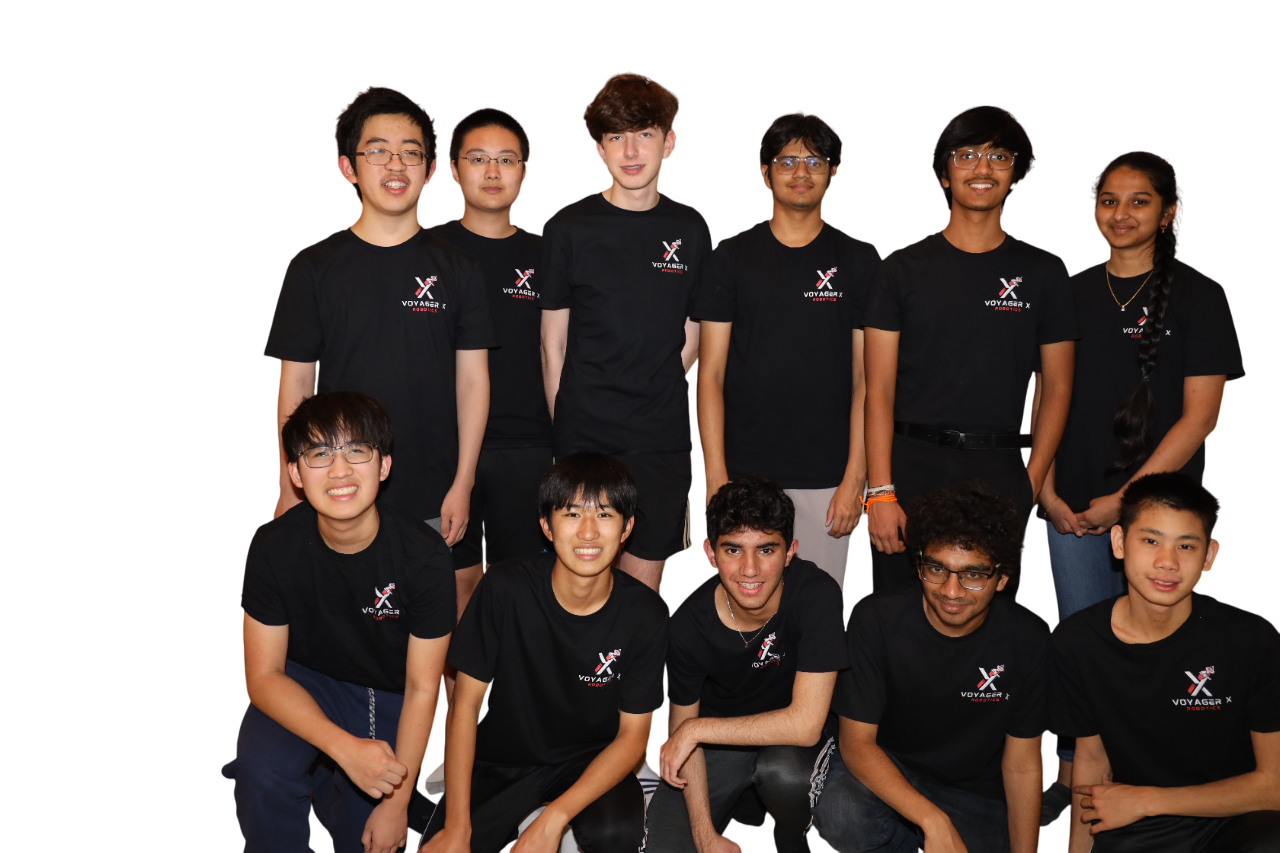
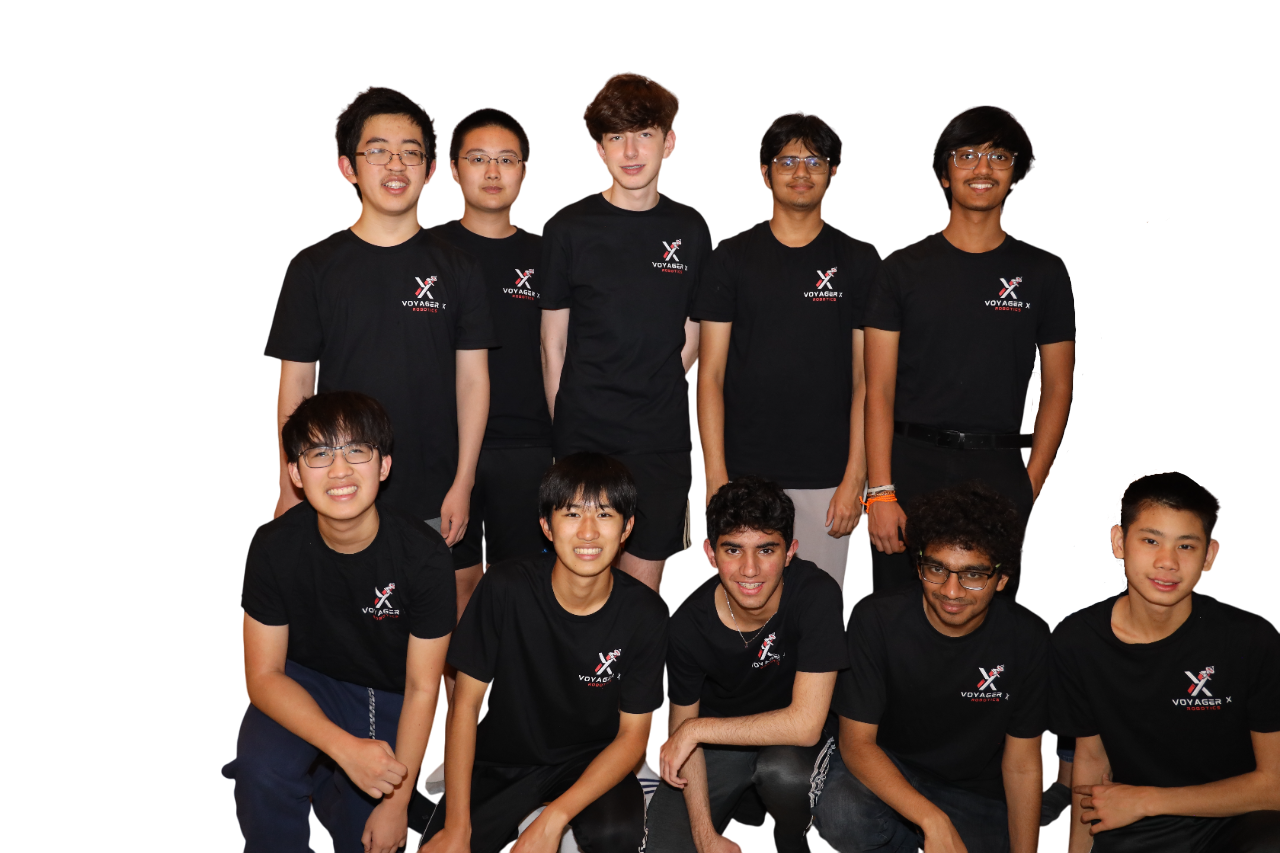
updated team photos and removed events

Changed region(s): [[0.7812, 0.1524, 0.9688, 0.7315]]

diff --git a/index.html b/index.html
@@ -58,7 +58,7 @@
                     <div class="navbar-nav ms-auto">
                         <a href="index.html" class="nav-item nav-link active">Home</a>
                         <a href="about.html" class="nav-item nav-link">About</a>
-                        <a href="events.html" class="nav-item nav-link">Events</a>
+                        <!-- <a href="events.html" class="nav-item nav-link">Events</a> -->
                         <!-- <div class="nav-item dropdown">
                             <a href="#" class="nav-link dropdown-toggle" data-bs-toggle="dropdown">Pages</a>
                             <div class="dropdown-menu bg-light mt-2">
@@ -85,8 +85,8 @@
                     <div class="btn btn-sm border rounded-pill text-white px-3 mb-3 animated slideInRight">#25576</div>
                     <h1 class="display-4 text-white mb-4 animated slideInRight">Voyager <img class="img-fluid align-baseline" width="50px" height="50px" src="img/logo.png"></h1>
                     <p class="text-white mb-4 animated slideInRight">Team 25576, Voyager X, is a robotics team of high school students from Plano, Texas.</p>
-                    <a href="" class="btn btn-light py-sm-3 px-sm-5 rounded-pill me-3 animated slideInRight">Read More</a>
-                    <a href="./contact.html" class="btn btn-outline-light py-sm-3 px-sm-5 rounded-pill animated slideInRight">Contact Us</a>
+                    <!-- <a href="" class="btn btn-light py-sm-3 px-sm-5 rounded-pill me-3 animated slideInRight">Read More</a> -->
+                    <!-- <a href="./contact.html" class="btn btn-outline-light py-sm-3 px-sm-5 rounded-pill animated slideInRight">Contact Us</a> -->
                 </div>
                 <div class="col-lg-6 align-self-end text-center text-lg-end">
                     <img class="img-fluid" src="img/hero-img.png" alt="voyager x robot">
@@ -143,7 +143,7 @@
                         </div>
                         <div class="col-sm-6">
                             <h6 class="mb-3"><i class="fa fa-check text-dark me-2"></i>Innovative</h6>
-                            <h6 class="mb-0"><i class="fa fa-check text-dark me-2"></i>Cool</h6>
+                            <h6 class="mb-0"><i class="fa fa-check text-dark me-2"></i>Dedicated</h6>
                         </div>
                     </div>
                     <div class="d-flex align-items-center mt-4">
@@ -160,7 +160,7 @@
     <!-- About End -->
 
     <!-- Events Start -->
-    <div class="container-fluid bg-light py-5">
+    <!-- <div class="container-fluid bg-light py-5">
         <div class="container py-5">
             <div class="mx-auto text-center wow fadeIn" data-wow-delay="0.1s" style="max-width: 500px;">
                 <div class="btn btn-sm border rounded-pill text-primary px-3 mb-3">Recent Events</div>
@@ -202,7 +202,7 @@
                 </div>
             </div>
         </div>
-    </div>
+    </div> -->
     <!-- Events End -->
 
     <!-- Team Start -->
@@ -328,19 +328,9 @@
                 </div>
                 <div class="col-md-6 col-lg-3 wow fadeIn" data-wow-delay="0.5s">
                     <h5 class="text-white mb-4">Links</h5>
-                    <a class="btn btn-link" href="">About Us</a>
-                    <a class="btn btn-link" href="">Contact Us</a>
-                    <a class="btn btn-link" href="">Privacy Policy</a>
-                    <a class="btn btn-link" href="">Terms & Condition</a>
-                    <a class="btn btn-link" href="">Career</a>
-                </div>
-                <div class="col-md-6 col-lg-3 wow fadeIn" data-wow-delay="0.7s">
-                    <h5 class="text-white mb-4">Our Services</h5>
-                    <a class="btn btn-link" href="">Robotic Automation</a>
-                    <a class="btn btn-link" href="">Machine learning</a>
-                    <a class="btn btn-link" href="">Predictive Analysis</a>
-                    <a class="btn btn-link" href="">Data Science</a>
-                    <a class="btn btn-link" href="">Robot Technology</a>
+                    <a class="btn btn-link" href="./about.html">About Us</a>
+                    <a class="btn btn-link" href="https://hcb.hackclub.com/donations/start/voyagerx">Donations</a>
+                    <a class="btn btn-link" href="https://ftcscout.org/teams/25576">FTC Scout</a>
                 </div>
             </div>
         </div>

diff --git a/about.html b/about.html
@@ -58,15 +58,15 @@
                     <div class="navbar-nav ms-auto">
                         <a href="index.html" class="nav-item nav-link active">Home</a>
                         <a href="about.html" class="nav-item nav-link">About</a>
-                        <a href="project.html" class="nav-item nav-link">Projects</a>
-                        <div class="nav-item dropdown">
+                        <!-- <a href="events.html" class="nav-item nav-link">Events</a> -->
+                        <!-- <div class="nav-item dropdown">
                             <a href="#" class="nav-link dropdown-toggle" data-bs-toggle="dropdown">Pages</a>
                             <div class="dropdown-menu bg-light mt-2">
                                 <a href="team.html" class="dropdown-item">Our Team</a>
                                 <a href="404.html" class="dropdown-item">404 Page</a>
                             </div>
-                        </div>
-                        <a href="contact.html" class="nav-item nav-link">Contact</a>
+                        </div> -->
+                        <a href="https://hcb.hackclub.com/donations/start/voyagerx" target="_blank" class="text-warning nav-item nav-link">Donate</a>
                     </div>
                     <butaton type="button" class="btn text-white p-0 d-none d-lg-block" data-bs-toggle="modal"
                         data-bs-target="#searchModal"><i class="fa fa-search"></i></butaton>
